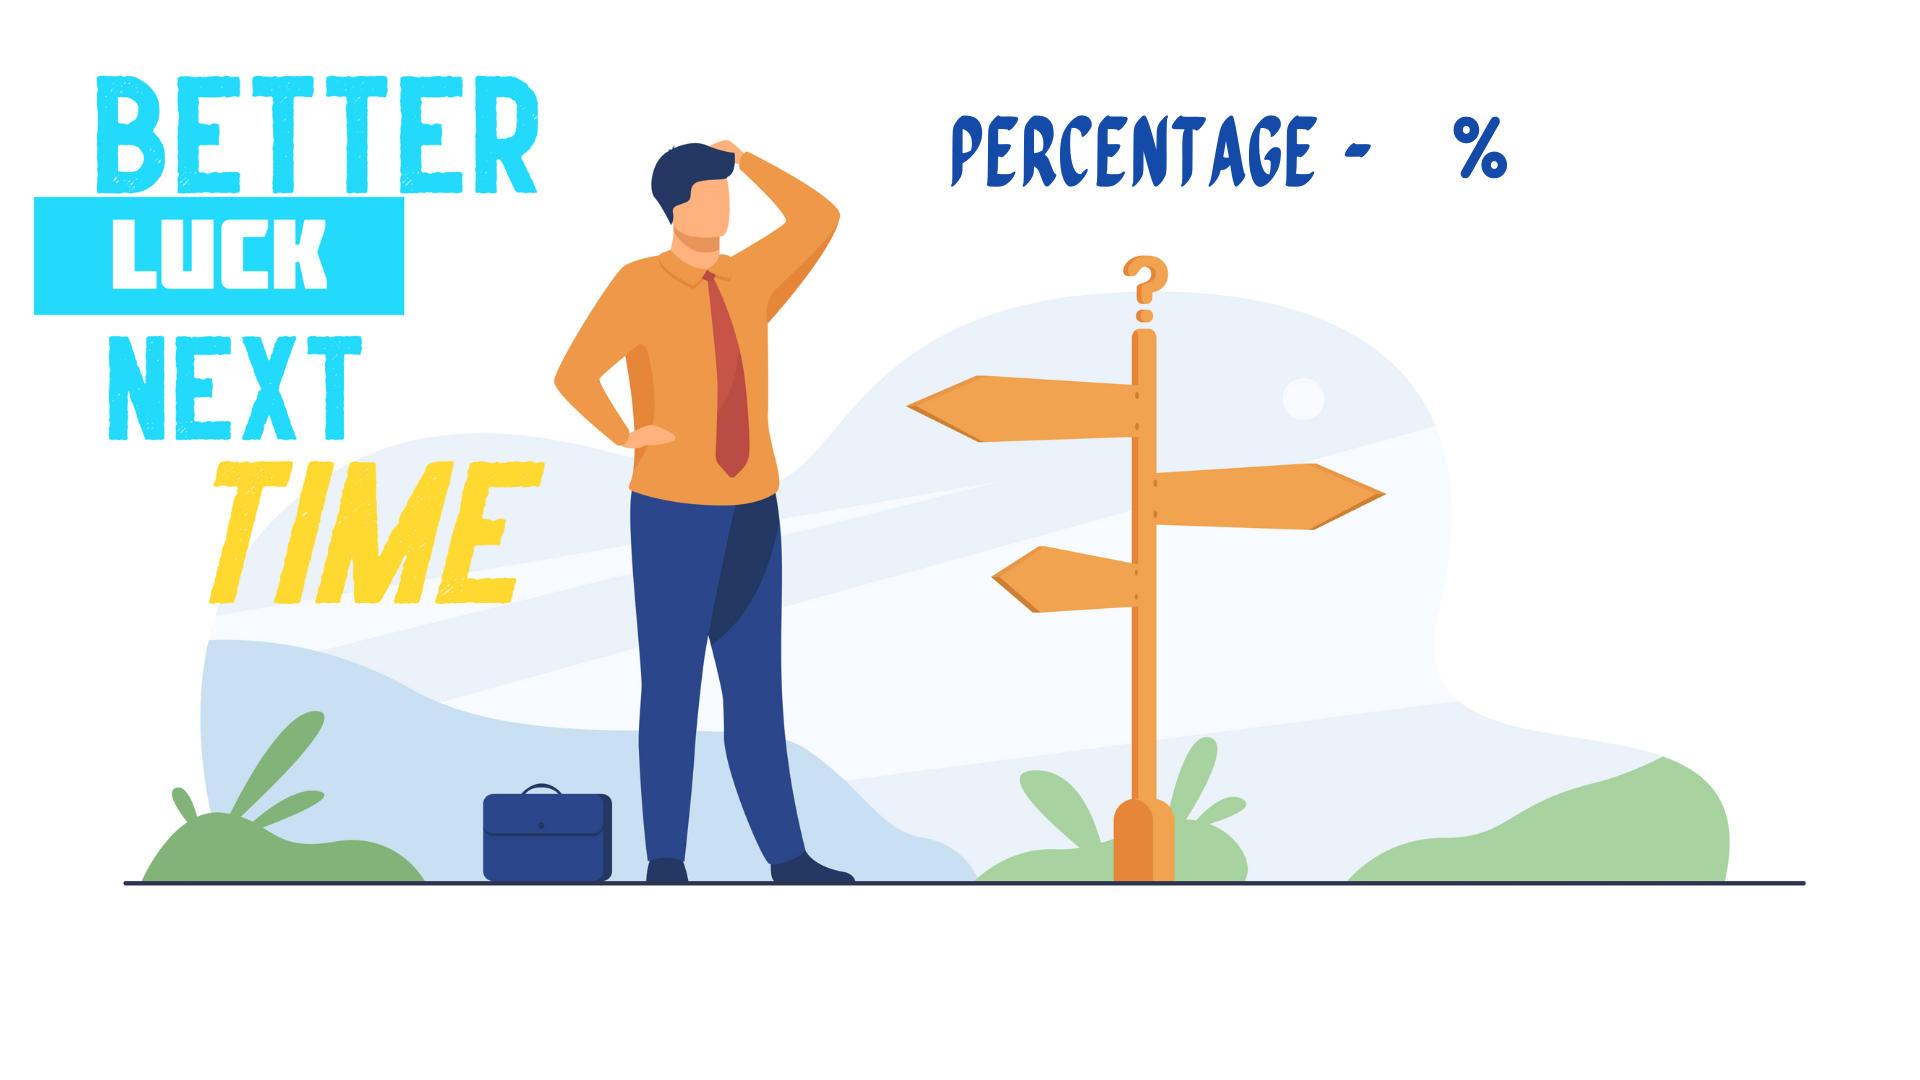
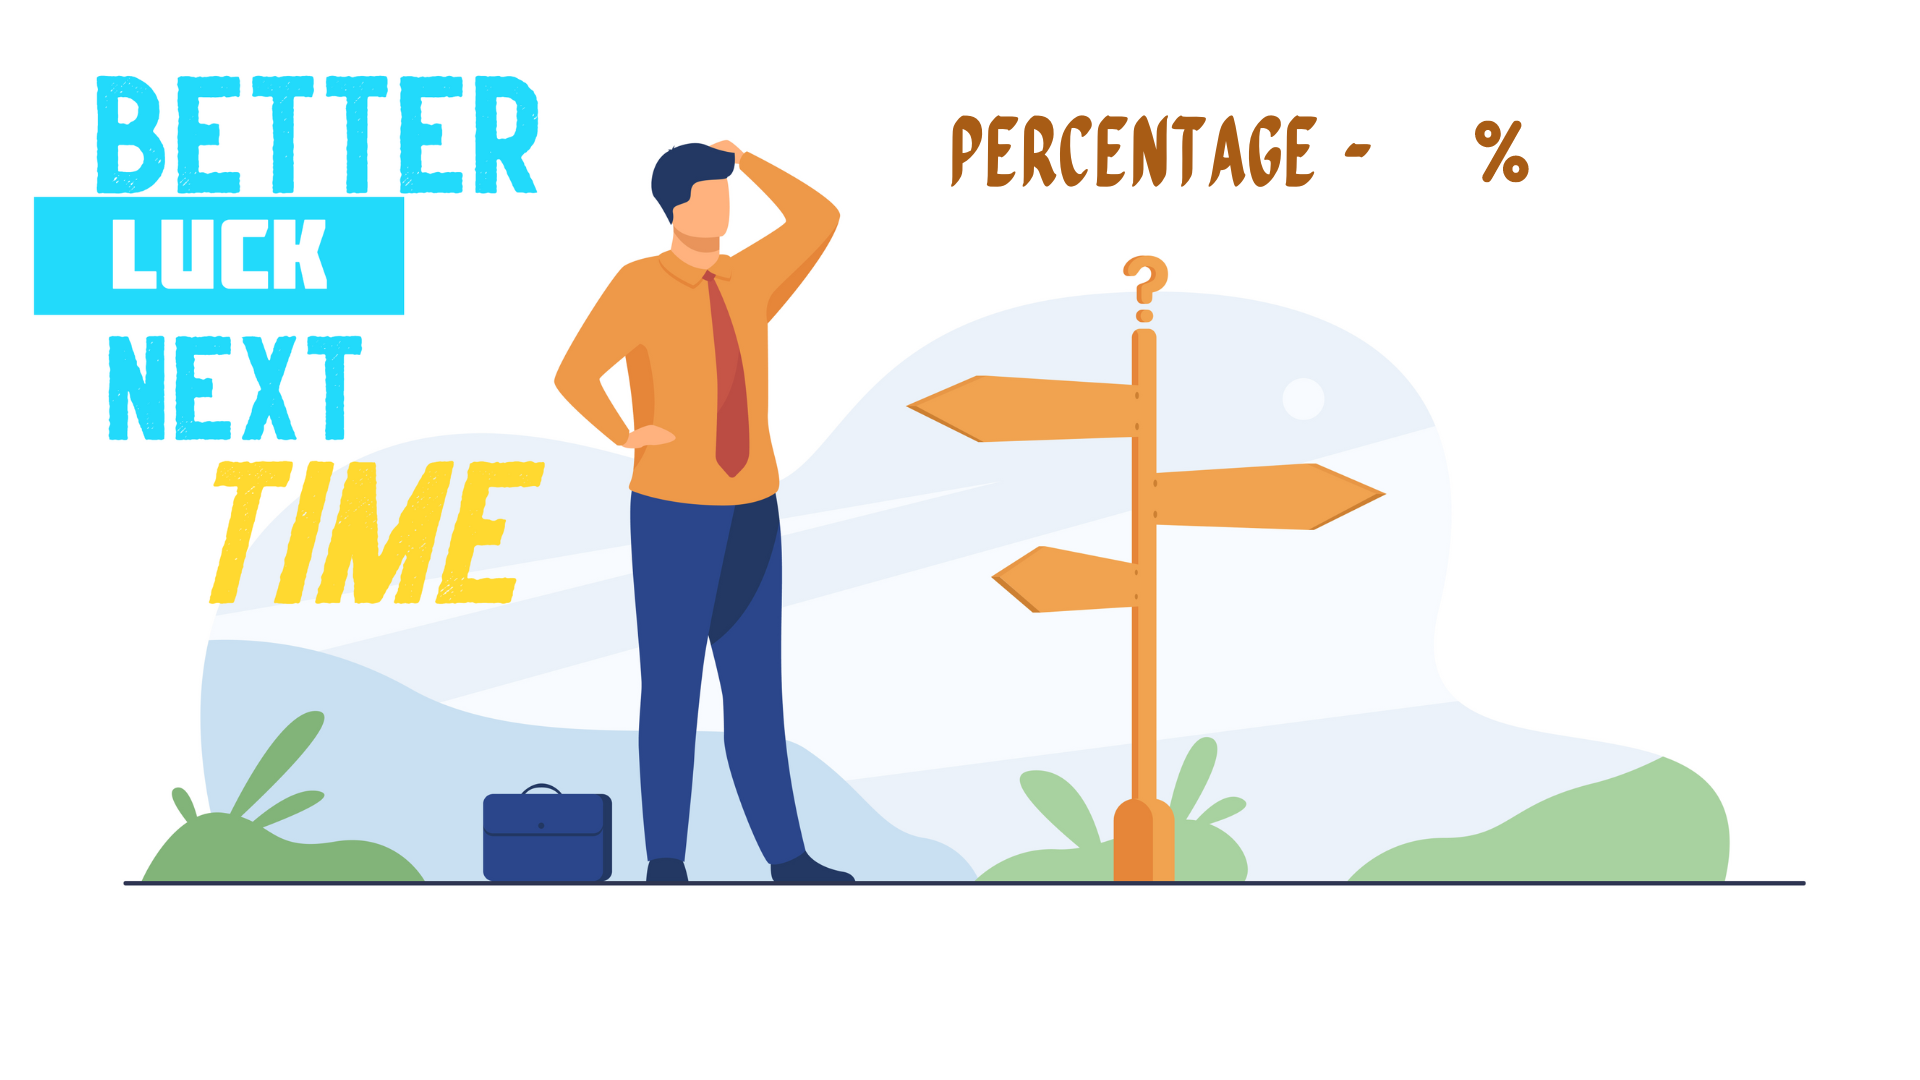
commit

Changed region(s): [[0.4688, 0.0917, 0.7188, 0.1833], [0.75, 0.0917, 0.8125, 0.1833]]

diff --git a/UAEP MAIN/templates/failure.html b/UAEP MAIN/templates/failure.html
@@ -11,16 +11,16 @@ pre{
 position: absolute;
 top: 5px;
 
-left: 900px;
+left: 920px;
 font-size: 40px;
 }
 p{
 
   position: absolute;
-  top: 50px;
-  color:#154ba8;
-  left: 1100px;
-font-size: 40px;
+  top: 12px;
+  color:#a85c15;
+  left: 802px;
+font-size: 50px;
 }
 
 </style>
